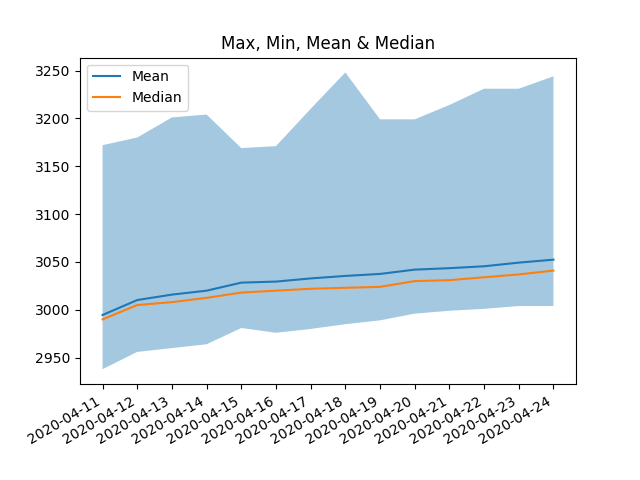
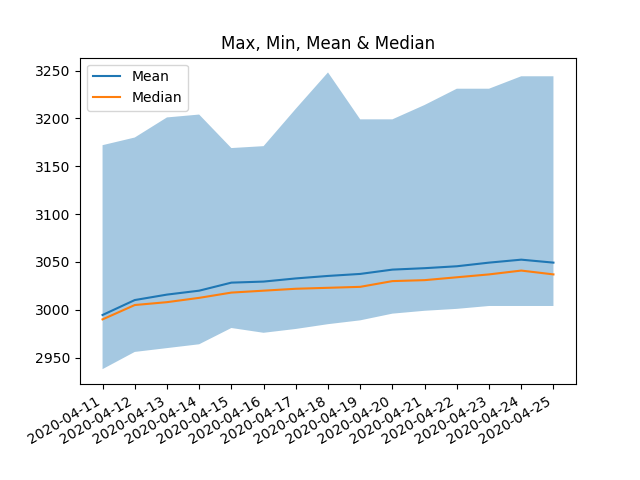
Sat Apr 25 15:30:14 EDT 2020

diff --git a/README.md b/README.md
@@ -1,10 +1,11 @@
 # MMR Drift Status
 
-**Last Updated (UTC):** 2020-04-24 21:15:13.419593
+**Last Updated (UTC):** 2020-04-25 19:30:13.615074
 ![Figure 1](/images/fig1.png)
 ![Figure 2](/images/fig2.png)
 |date| min| max| mean| drift_daily| drift_total| median| stdev|
 |:---|:---|:---|:---|:---|:---|:---|:--- |
+|2020-04-25| 3004| 3244| 3049.3| -3.1| 54.7| 3037.0| 40.4|
 |2020-04-24| 3004| 3244| 3052.4| 3.0| 57.7| 3041.0| 44.1|
 |2020-04-23| 3004| 3231| 3049.3| 3.9| 54.7| 3037.0| 41.7|
 |2020-04-22| 3001| 3231| 3045.5| 2.0| 50.9| 3034.0| 41.0|
